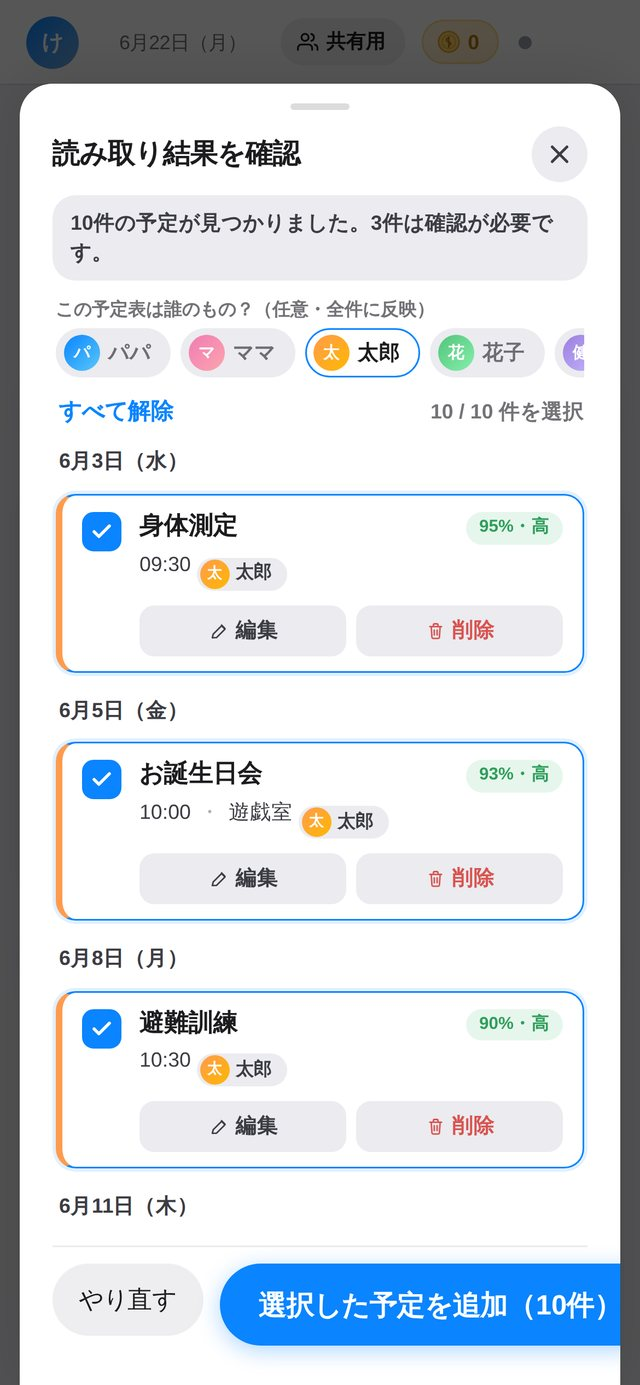
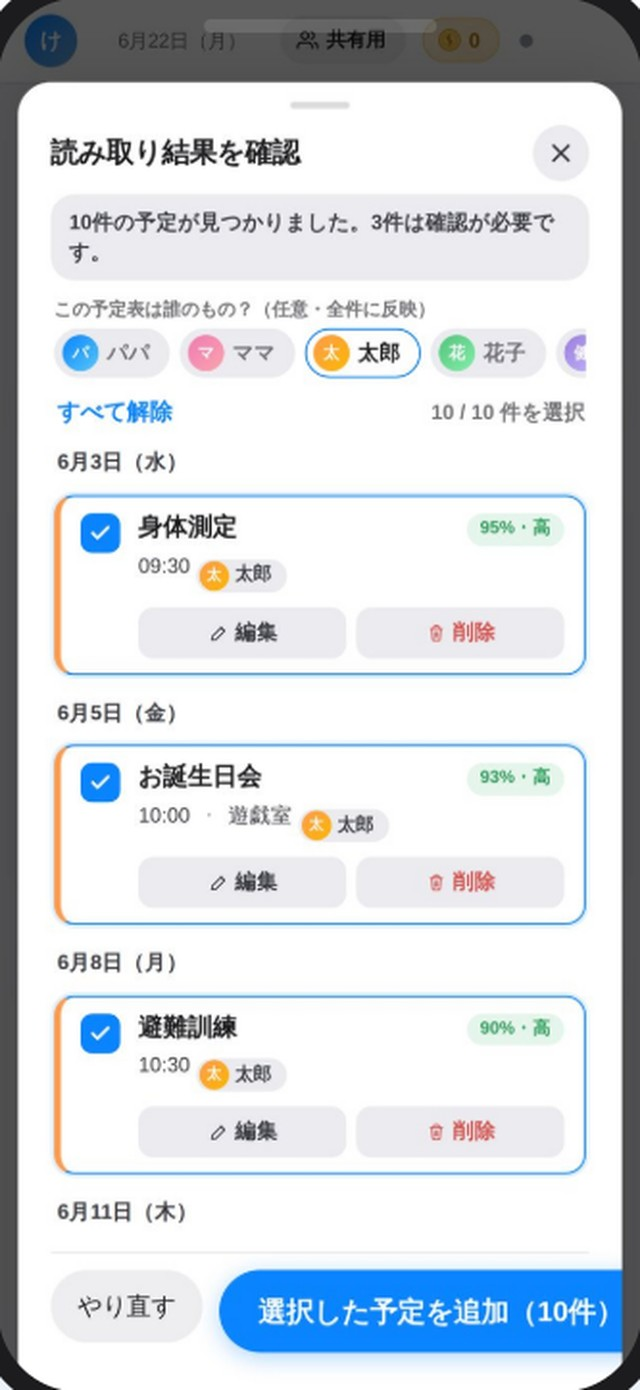
Fix OCR mockup: replace screenshot so bottom buttons no longer overflow
The old ocr.jpg cut off the blue 'add selected' button at the right edge.
Replace it with the corrected screenshot, cropped out of its device bezel
(so it doesn't double up with the CSS phone frame) to the standard
640x1390 screen ratio; cache-busted reference.

Claude-Session: https://claude.ai/code/session_014h6FqYjzP1qVqtZzPWcFxb

diff --git a/familink.html b/familink.html
@@ -311,7 +311,7 @@
 <section class="feat" id="ocr">
   <div class="wrap feat__in">
     <div class="feat__media rv">
-      <div class="phone"><img src="images/familink/lp/ocr.jpg" alt="予定表OCRの読み取り結果確認画面：写真から10件の予定を自動抽出し、選択して一括登録" width="640" height="1385" loading="lazy"></div>
+      <div class="phone"><img src="images/familink/lp/ocr.jpg?v=2" alt="予定表OCRの読み取り結果確認画面：写真から10件の予定を自動抽出し、選択して一括登録" width="640" height="1390" loading="lazy"></div>
     </div>
     <div class="feat__body rv">
       <span class="eyebrow">予定表まるごと OCR</span>